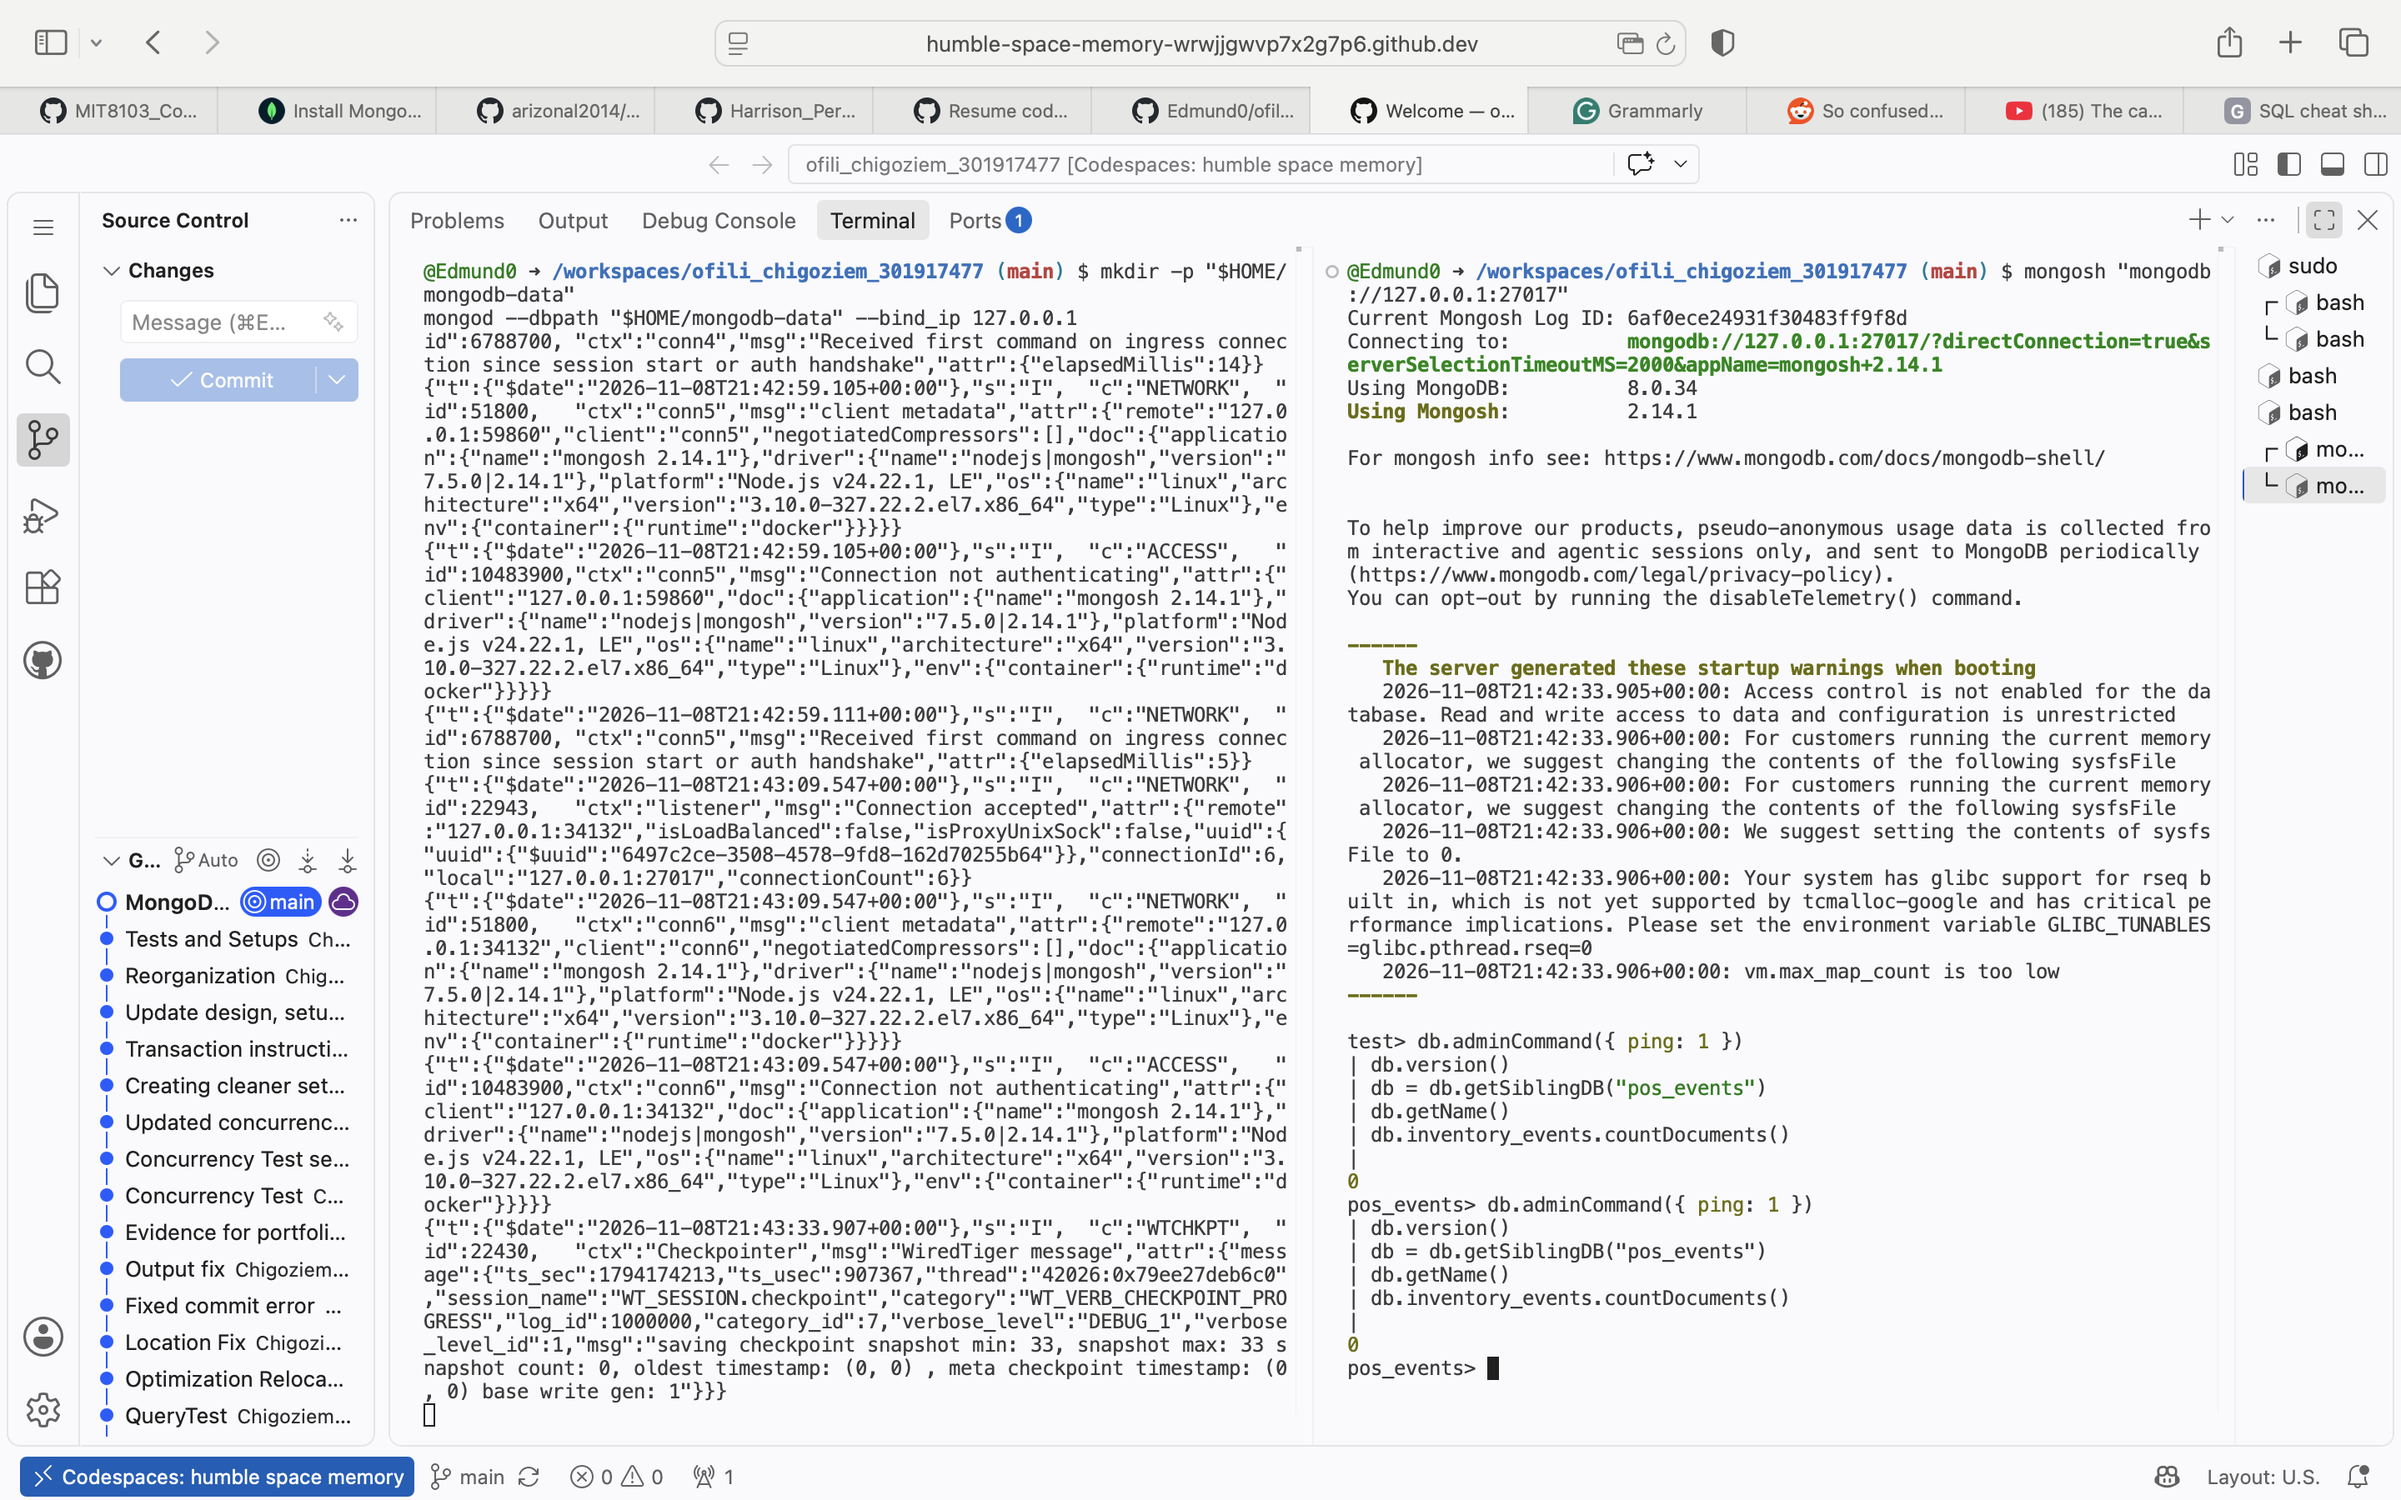
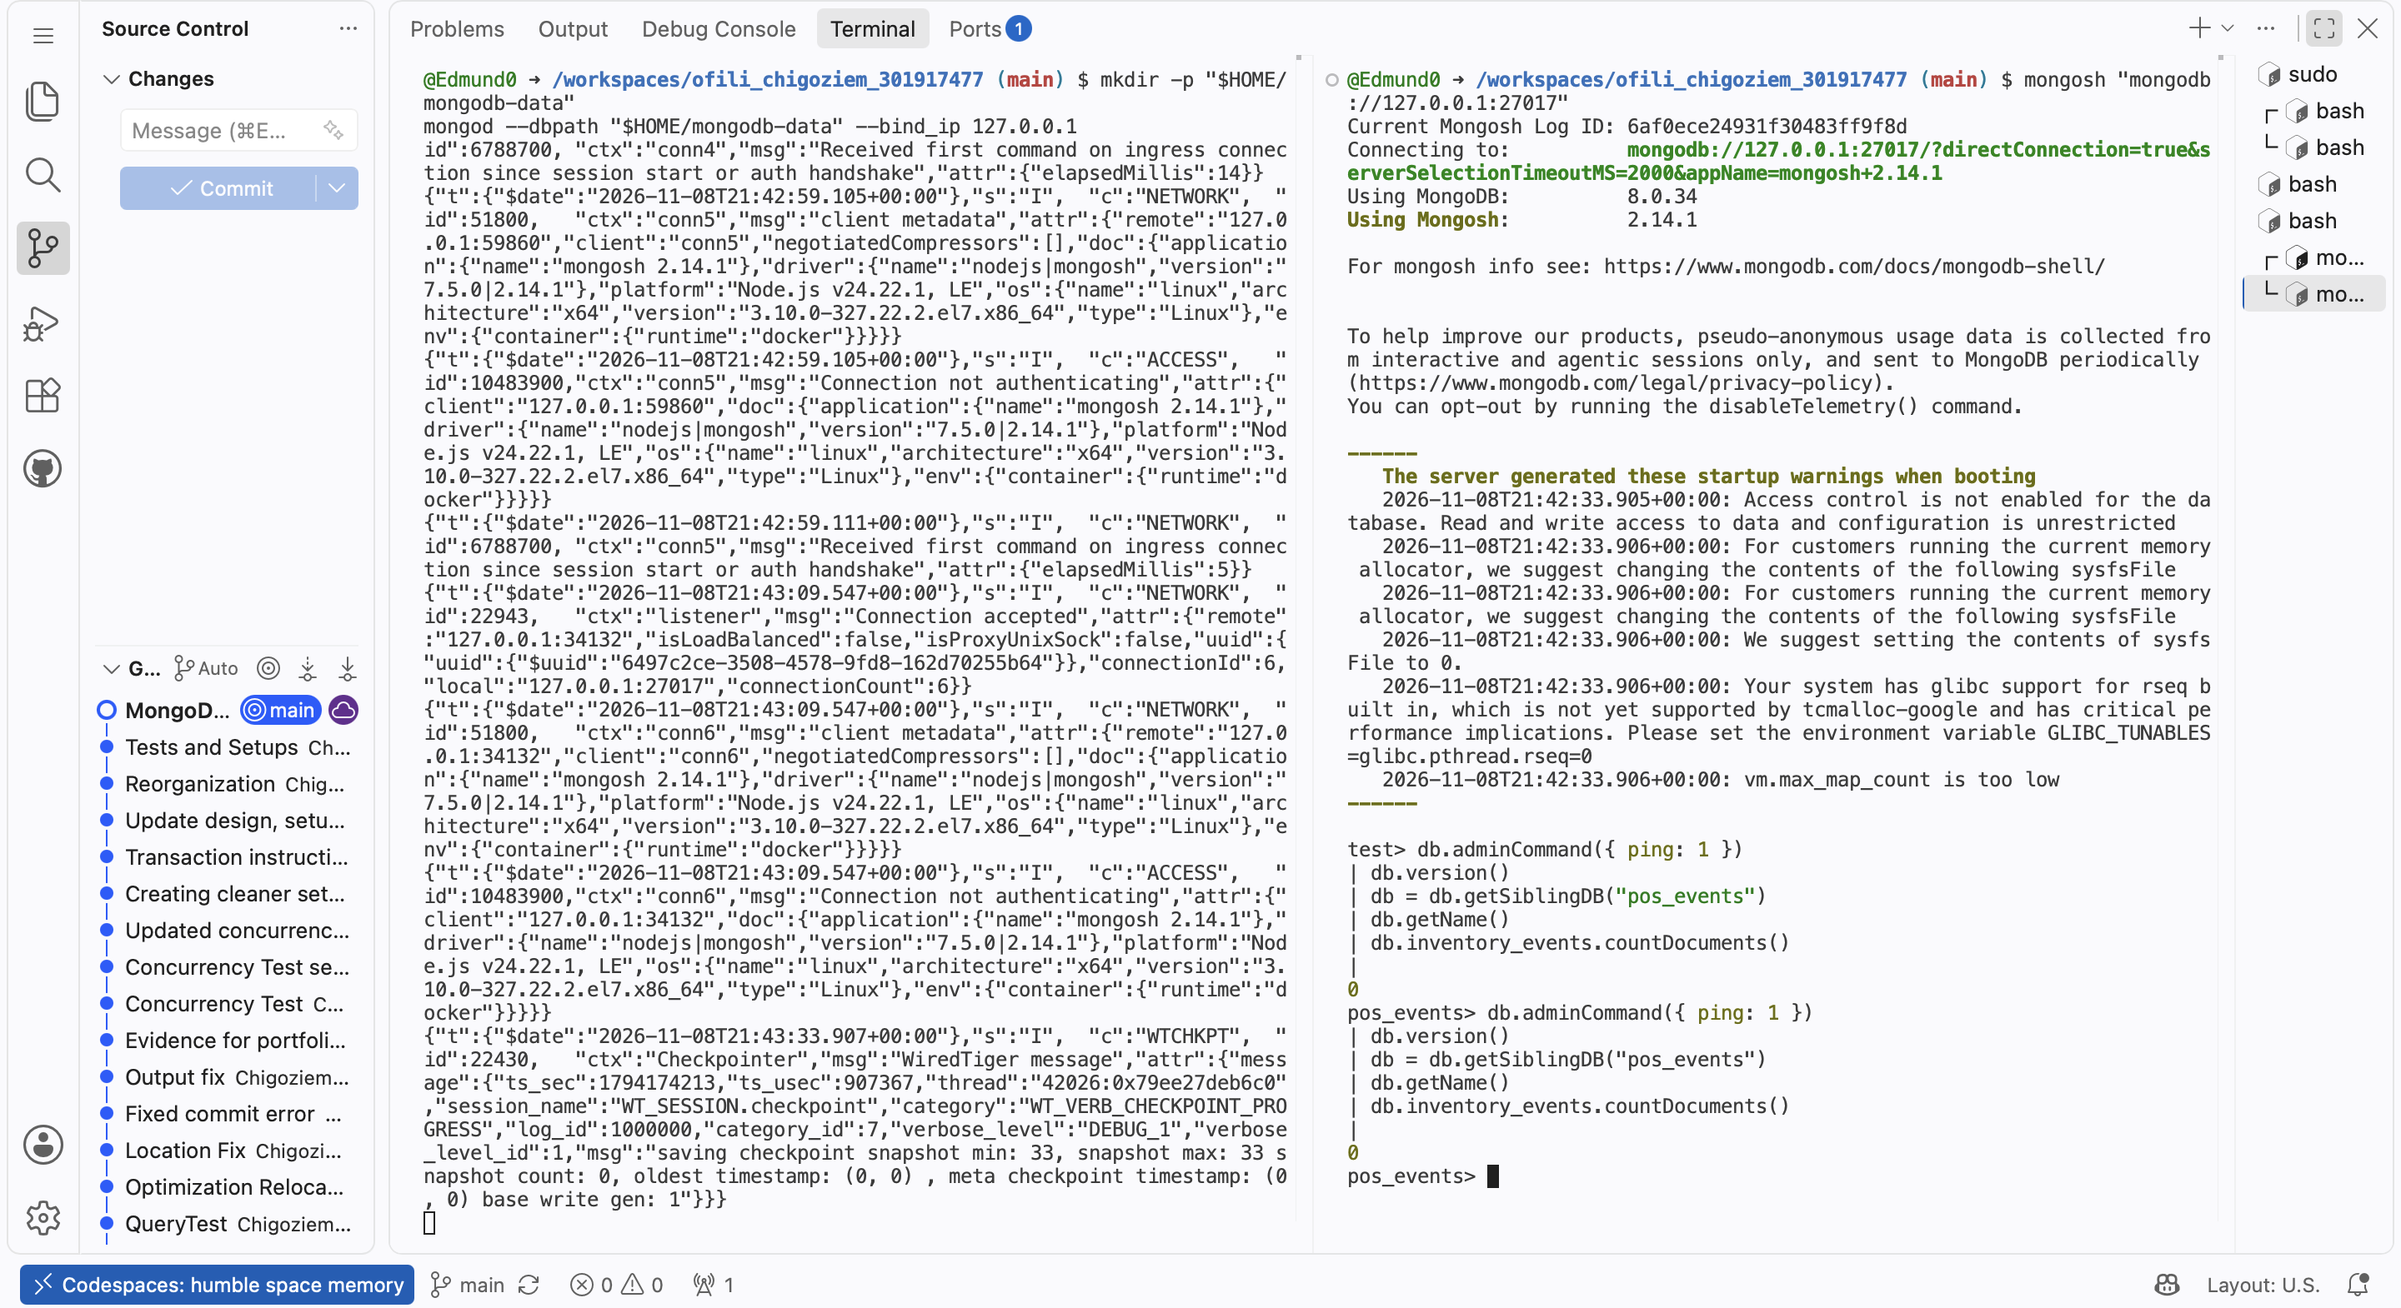
MongoDBSetup Update

diff --git a/portfolio-4-nosql/db/Test.md b/portfolio-4-nosql/db/Test.md
@@ -4,26 +4,29 @@ Author: Chigoziem Edmund Ofili (301917477)
 
 ## Steps
 
-1. Complete [Setup.md](../design/Setup.md), then use the connected mongosh terminal at the repository root.
-2. Run the script once:
+Run the tests from the repository root in GitHub Codespaces.
+
+1. Start MongoDB in Terminal A and connect with mongosh in Terminal B, following [Setup.md](../design/Setup.md). Keep the server running while testing.
+2. In Terminal B's mongosh session, run the script once:
 
    ```javascript
    load("portfolio-4-nosql/db/code/MongoDB.js")
    ```
 
-3. Save the insertion output and query results as screenshots or text.
+3. Save the setup and test output. Evidence: [setup screenshot](outputs/MongoDBSetup.png), [test screenshot](outputs/Test.png) and [text output](outputs/Test.txt).
 
-**MongoDB version and environment:**
+**MongoDB version and environment:** MongoDB 8.0.34, mongosh 2.14.1, running locally in GitHub Codespaces at `127.0.0.1:27017`. The database was `pos_events`, with collection `inventory_events`.
 
 ## Results
 
 | Check | Observed result | Evidence |
 | --- | --- | --- |
-| Four events inserted | | |
-| Document count | | |
-| Rice event history | | |
-| Giveaway reason filter | | |
-| Quantity changes by product | | |
+| Four events inserted | acknowledged was true; inserted IDs were E001, E002, E003 and E004. | [Text output](outputs/Test.txt) |
+| Document count | 0 before loading the script; 4 afterward. | [Setup](outputs/MongoDBSetup.png), [text output](outputs/Test.txt) |
+| Rice event history | E001 delivery, E002 sale and E003 giveaway, in that order. | [Text output](outputs/Test.txt) |
+| Giveaway reason filter | Returned E003 with reason Buy 2, get 1 free. | [Screenshot](outputs/Test.png), [text output](outputs/Test.txt) |
+| Quantity changes by product | RICE: 7; SOAP: 5. | [Screenshot](outputs/Test.png), [text output](outputs/Test.txt) |
 
 **What the results showed:**
 
+The collection stores deliveries, sales and giveaways with different details. The queries filter a nested giveaway reason and group quantity changes by product. The grouped totals describe these events, not current stock.

diff --git a/portfolio-4-nosql/design/Setup.md b/portfolio-4-nosql/design/Setup.md
@@ -55,7 +55,7 @@ Open Terminal B at the repository root:
 mongosh "mongodb://127.0.0.1:27017"
 ```
 
-The following commands go inside mongosh:
+Run each of the following commands separately inside mongosh, pressing Enter after each:
 
 ```javascript
 db.adminCommand({ ping: 1 })
@@ -69,7 +69,7 @@ Check for `ok: 1`, the server version, the database name pos_events and an initi
 
 If documents already exist, inspect the previous run before loading the sample again.
 
-Save the connection-check output as evidence and record the actual MongoDB version and environment in the README.
+Save the connection-check output as evidence and record the actual MongoDB version and environment in [Test.md](../db/Test.md).
 
 ## 5. Run the tests
 
